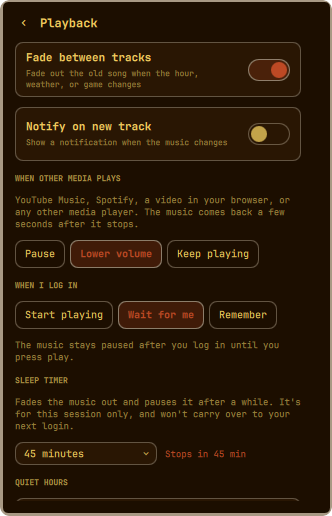
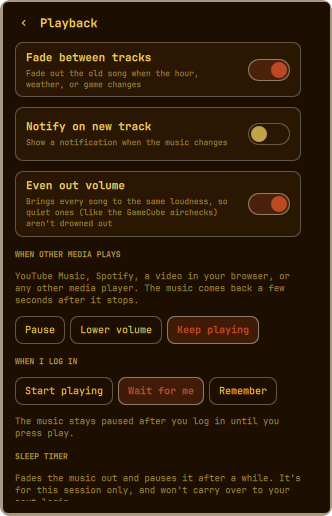
1.1.0: even out volume between songs
Some server recordings are far off the rest (the GameCube K.K. airchecks
sit around -26 to -30 LUFS against about -18 elsewhere; a few songs are
louder). Each song is now measured with ffmpeg's EBU R128 filter when it
lands in the cache, and mpv applies a per-track volume-gain toward -18
LUFS, boosting no further than the true peak allows and at most 12 dB.
Already-cached songs are measured in the background, and K.K.'s next song
is fetched while the current one plays so it starts cached and levelled.

The cache helper becomes bin/song-cache (fetch, measure, index). Playback
gets an "Even out volume" switch (on by default) that applies live.

Changed region(s): [[0.0301, 0.3101, 0.9036, 0.9922], [0.8735, 0.4341, 0.9036, 0.4651], [0.8735, 0.3101, 0.9036, 0.3411]]

diff --git a/Service.qml b/Service.qml
@@ -106,14 +106,21 @@ Item {
   // ---- Song cache (~/.cache/ac-music) ----
   readonly property string cacheDir: (Quickshell.env("XDG_CACHE_HOME") || home + "/.cache") + "/ac-music"
   readonly property string fetchScript: {
-    var url = String(Qt.resolvedUrl("bin/cache-fetch"))
+    var url = String(Qt.resolvedUrl("bin/song-cache"))
     return decodeURIComponent(url.indexOf("file://") === 0 ? url.substring(7) : url)
   }
-  // Relative paths of songs already on disk.
+  // Songs already on disk, by relative path: { loudness, peak } (null until measured).
   property var cached: ({})
+  // Pending cache jobs: { kind: "fetch", url } or { kind: "measure", rel }.
   property real cacheBytes: -1
   property var downloadQueue: []
   property string prefetchedFor: ""
+  // The K.K. song lined up next ({ song, version }), fetched ahead of time.
+  property var nextKK: null
+  // Levelling gain (dB) measured for the song mpv is playing, and the gain
+  // actually applied (0 while levelling is off), so the switch applies live.
+  property real loadedGain: 0
+  property real appliedGain: 0
 
   // ---- mpv ----
   // mpv-mpris (part of Omarchy's base install) makes mpv a system media
@@ -437,39 +444,80 @@ Item {
     return url
   }
 
+  function levelOn() {
+    return config.levelVolume && config.cache.enabled
+  }
+
+  // Levelling gain for a song from its cached measurement (0 if unknown),
+  // regardless of the on/off switch.
+  function gainFor(url) {
+    var entry = cached[Model.cacheRelPath(url)]
+    return entry ? Model.levelGain(entry.loudness, entry.peak) : 0
+  }
+
+  // Options shared by every track load: the media title and levelling gain.
+  function trackOptions(url, title) {
+    loadedGain = gainFor(url)
+    appliedGain = levelOn() ? loadedGain : 0
+    return "volume-gain=" + appliedGain + ",force-media-title=" + Model.mpvQuote(title)
+  }
+
+  function queueJob(job) {
+    var same = function(j) { return j.kind === job.kind && (j.url || j.rel) === (job.url || job.rel) }
+    if (downloadQueue.some(same) || (downloadProc.running && downloadProc.job && same(downloadProc.job))) return
+    downloadQueue = downloadQueue.concat([job])
+    pumpDownloads()
+  }
+
   function queueDownload(url) {
     var rel = Model.cacheRelPath(url)
     if (!config.cache.enabled || !rel || cached[rel]) return
-    if (downloadQueue.indexOf(url) >= 0 || (downloadProc.running && downloadProc.url === url)) return
-    downloadQueue = downloadQueue.concat([url])
-    pumpDownloads()
+    queueJob({ kind: "fetch", url: url })
   }
 
   function pumpDownloads() {
     if (downloadProc.running || downloadQueue.length === 0) return
-    var url = downloadQueue[0]
+    var job = downloadQueue[0]
     downloadQueue = downloadQueue.slice(1)
-    downloadProc.url = url
-    downloadProc.command = ["bash", fetchScript, url, cacheDir, Model.cacheRelPath(url), String(config.cache.limitMB * 1048576)]
+    downloadProc.job = job
+    downloadProc.command = job.kind === "measure"
+      ? ["bash", fetchScript, "measure", cacheDir, job.rel]
+      : ["bash", fetchScript, "fetch", job.url, cacheDir, Model.cacheRelPath(job.url), String(config.cache.limitMB * 1048576)]
     downloadProc.running = true
   }
 
   // In the last ten minutes of an hour, fetch the next hour's song so the
-  // hour change starts instantly.
+  // hour change starts instantly (and, if K.K. opens the hour, his song).
   function prefetchNextHour(d) {
     var next = new Date(d.getTime() + 15 * 60000)
     var key = Model.dateKey(next) + "|" + next.getHours()
     if (prefetchedFor === key) return
     prefetchedFor = key
+    if (Model.wantsBetween(config, next.getHours()) && !nextKK) prepareNextKK()
     if (Model.isKKTime(config, next)) return
     var g = Model.pickGame(config, Model.dateKey(next), next.getHours(), 0, 0, weather)
     if (g === Model.KK_ID) return
     queueDownload(Model.hourlyUrl(g, Model.trackWeather(g, weather), next.getHours()))
   }
 
+  // Line up K.K.'s next song now so it's cached (and levelled) when it starts.
+  function prepareNextKK() {
+    nextKK = Model.pickKK(config, Data.kkSongs, recentKK)
+    queueDownload(Model.kkUrl(nextKK.version, nextKK.song))
+  }
+
+  // The lined-up song if it's still allowed, else a fresh pick.
+  function takeNextKK() {
+    var n = nextKK
+    nextKK = null
+    var stillTicked = n && Model.kkVersionsFor(config, n.song).indexOf(n.version) >= 0
+    var repeat = n && recentKK.length > 0 && recentKK[recentKK.length - 1] === n.song
+    return stillTicked && !repeat ? n : Model.pickKK(config, Data.kkSongs, recentKK)
+  }
+
   function rescanCache() {
     if (cacheIndexProc.running) return
-    cacheIndexProc.command = ["find", cacheDir, "-type", "f", "-name", "*.ogg", "-printf", "%P\\n"]
+    cacheIndexProc.command = ["bash", fetchScript, "index", cacheDir]
     cacheIndexProc.running = true
   }
 
@@ -486,9 +534,17 @@ Item {
     cacheBytes = 0
   }
 
+  // Turning levelling on or off applies to the song that's playing right away.
+  function syncLevelGain() {
+    var gain = levelOn() ? loadedGain : 0
+    if (!mpvReady || gain === appliedGain) return
+    appliedGain = gain
+    send(["set_property", "volume-gain", gain])
+  }
+
   Process {
     id: downloadProc
-    property string url: ""
+    property var job: null
     onExited: function(exitCode) {
       root.rescanCache()
       root.pumpDownloads()
@@ -500,9 +556,17 @@ Item {
     stdout: StdioCollector {
       onStreamFinished: {
         var map = {}
-        text.split("\n").forEach(function(line) { if (line) map[line] = true })
+        var unmeasured = []
+        text.split("\n").forEach(function(line) {
+          var entry = Model.parseCacheLine(line)
+          if (!entry) return
+          map[entry.rel] = { loudness: entry.loudness, peak: entry.peak }
+          if (entry.loudness === null) unmeasured.push(entry.rel)
+        })
         root.cached = map
         root.refreshCacheSize()
+        // Songs cached before levelling existed (or whose measurement failed).
+        if (root.config.levelVolume) unmeasured.forEach(function(rel) { root.queueJob({ kind: "measure", rel: rel }) })
       }
     }
   }
@@ -542,6 +606,7 @@ Item {
   onConfigChanged: {
     syncSlot(new Date())
     syncVolume()
+    syncLevelGain()
     syncOtherMediaMode()
   }
   onHeldQuietChanged: syncVolume()
@@ -608,7 +673,7 @@ Item {
     lastError = ""
     loadedKey = trackKey
     if (betweenActive) {
-      startKK(Model.pickKK(config, Data.kkSongs, recentKK))
+      startKK(takeNextKK())
       notifyTrack("K.K. Slider", Model.kkTitle(kkSong) + ", then " + Model.hourLabel(hour))
       return
     }
@@ -620,9 +685,10 @@ Item {
     var opts = "loop-file=inf"
     if (loop && loop[1] > loop[0]) opts += ",ab-loop-a=" + loop[0] + ",ab-loop-b=" + loop[1]
     else opts += ",ab-loop-a=no,ab-loop-b=no"
+    var url = Model.hourlyUrl(game, trackWeather, hour)
     var title = Model.gameName(game) + " · " + Model.hourLabel(hour) + " · " + Model.weatherName(trackWeather)
-    opts += ",force-media-title=" + Model.mpvQuote(title)
-    send(["loadfile", sourceFor(Model.hourlyUrl(game, trackWeather, hour)), "replace", -1, opts])
+    opts += "," + trackOptions(url, title)
+    send(["loadfile", sourceFor(url), "replace", -1, opts])
     send(["set_property", "pause", !audible])
     restoreVolume()
     notifyTrack(Model.gameName(game), Model.hourLabel(hour) + " · " + Model.weatherName(trackWeather))
@@ -636,17 +702,18 @@ Item {
     kkVersionPlaying = choice.version
     lastError = ""
     send(["loadfile", sourceFor(Model.kkUrl(choice.version, choice.song)), "replace", -1, kkOptions(choice.song, choice.version)])
+    prepareNextKK()
     send(["set_property", "pause", !audible])
     restoreVolume()
   }
 
   function kkOptions(song, version) {
     var title = Model.kkTitle(song) + " · K.K. Slider (" + Model.versionName(version) + ")"
-    return "loop-file=no,ab-loop-a=no,ab-loop-b=no,force-media-title=" + Model.mpvQuote(title)
+    return "loop-file=no,ab-loop-a=no,ab-loop-b=no," + trackOptions(Model.kkUrl(version, song), title)
   }
 
   function playNextKK() {
-    startKK(Model.pickKK(config, Data.kkSongs, recentKK))
+    startKK(takeNextKK())
     notifyTrack("K.K. Slider", Model.kkTitle(kkSong))
   }
 

diff --git a/Model.js b/Model.js
@@ -114,6 +114,8 @@ function defaultConfig() {
     },
     fade: true,
     notify: false,
+    // Even out loudness between songs, using measurements of cached songs.
+    levelVolume: true,
     // Each day from `start` to `end` (hours, same rules as concerts), either
     // pause the music or turn it down; it comes back when they end.
     quiet: { enabled: false, start: 23, end: 7, mode: "pause" },
@@ -243,6 +245,7 @@ function normalizeConfig(raw) {
     kk: normalizeKK(c.kk),
     fade: bool(c.fade, d.fade),
     notify: bool(c.notify, d.notify),
+    levelVolume: bool(c.levelVolume, d.levelVolume),
     quiet: normalizeQuiet(c.quiet),
     cache: normalizeCache(c.cache),
     atLogin: pick(c.atLogin, ["play", "wait", "resume"], d.atLogin),
@@ -492,6 +495,36 @@ function kkUrl(version, song) {
 function cacheRelPath(url) {
   var prefix = BASE_URL + "/"
   return url.indexOf(prefix) === 0 ? decodeURIComponent(url.substring(prefix.length)) : ""
+}
+
+// ---- Volume levelling ----------------------------------------------------
+
+// Loudness every song is brought to. The hourly themes already sit near it;
+// it mostly lifts the quiet airchecks and tames the odd loud one.
+var LEVEL_TARGET = -18
+var LEVEL_MAX_DB = 12
+
+// Gain (dB) for a song measured at `loudness` LUFS with `peak` dBTP. Boosts
+// stop before the peak passes -1 dBTP, so levelling never clips.
+function levelGain(loudness, peak) {
+  if (typeof loudness !== "number" || isNaN(loudness)) return 0
+  var gain = LEVEL_TARGET - loudness
+  if (gain > 0 && typeof peak === "number" && !isNaN(peak)) gain = Math.min(gain, Math.max(0, -1 - peak))
+  gain = Math.max(-LEVEL_MAX_DB, Math.min(LEVEL_MAX_DB, gain))
+  return Math.round(gain * 10) / 10
+}
+
+// One line of `song-cache index`: "rel<TAB>loudness<TAB>peak" (last two may be empty).
+function parseCacheLine(line) {
+  var parts = String(line).split("\t")
+  if (!parts[0]) return null
+  var loudness = parseFloat(parts[1])
+  var peak = parseFloat(parts[2])
+  return {
+    rel: parts[0],
+    loudness: isNaN(loudness) ? null : loudness,
+    peak: isNaN(peak) ? null : peak
+  }
 }
 
 // mpv's escaping for a value inside a key=value option list: %<bytes>%value.

diff --git a/tests/model.test.js b/tests/model.test.js
@@ -236,3 +236,22 @@ test("mpv option quoting counts UTF-8 bytes", () => {
   assert.equal(Model.mpvQuote("abc"), "%3%abc")
   assert.equal(Model.mpvQuote("a · b"), "%6%a · b")
 })
+
+// ---- Volume levelling ----------------------------------------------------
+
+test("levelling lifts quiet songs, tames loud ones, and never clips", () => {
+  assert.equal(Model.levelGain(-26.4, -13.0), 8.4, "quiet aircheck gets lifted to the target")
+  assert.equal(Model.levelGain(-28.7, -13.0), 10.7)
+  assert.equal(Model.levelGain(-12.8, 0.3), -5.2, "loud song comes down")
+  assert.equal(Model.levelGain(-22, -2), 1, "a boost stops at -1 dBTP peak")
+  assert.equal(Model.levelGain(-20, 0.5), 0, "no headroom, no boost (but no cut either)")
+  assert.equal(Model.levelGain(-40, -30), 12, "capped at +12 dB")
+  assert.equal(Model.levelGain(null, null), 0, "unmeasured songs play as they are")
+  assert.equal(Model.normalizeConfig({}).levelVolume, true)
+})
+
+test("cache index lines parse with and without measurements", () => {
+  assert.deepEqual(Model.parseCacheLine("kk/live/NH - Drivin'.ogg\t-19.4\t-0.9"), { rel: "kk/live/NH - Drivin'.ogg", loudness: -19.4, peak: -0.9 })
+  assert.deepEqual(Model.parseCacheLine("new-leaf/sunny/1am.ogg\t"), { rel: "new-leaf/sunny/1am.ogg", loudness: null, peak: null })
+  assert.equal(Model.parseCacheLine(""), null)
+})

diff --git a/PlaybackPage.qml b/PlaybackPage.qml
@@ -52,6 +52,18 @@ Column {
     onClicked: page.p.svc.update({ notify: !page.p.cfg.notify })
   }
 
+  Toggle {
+    width: parent.width
+    label: "Even out volume"
+    description: page.p.cfg.cache.enabled
+      ? "Brings every song to the same loudness, so quiet ones (like the GameCube airchecks) aren't drowned out"
+      : "Needs the song cache below, which is where songs are measured"
+    checked: page.p.cfg.levelVolume
+    foreground: page.p.foreground
+    fontFamily: page.p.fontFamily
+    onClicked: page.svc.update({ levelVolume: !page.p.cfg.levelVolume })
+  }
+
   PanelSectionHeader { text: "WHEN OTHER MEDIA PLAYS"; foreground: page.p.foreground; fontFamily: page.p.fontFamily }
 
   Text {

diff --git a/README.md b/README.md
@@ -55,7 +55,8 @@ don't download again every day.
 - **Your choice at login:** start playing, wait for you to press play, or pick up where you left off.
 - **Media keys:** your keyboard's play/pause key, headset buttons, and Omarchy's media controls all work, with the game and hour as the track title.
 - **Sleep timer and quiet hours:** fade out after 15 minutes to an hour and a half, or pause (or turn down) the music at the same time every night and bring it back in the morning.
-- **Light on data:** recently played songs are kept in a small cache, and the next hour's song is fetched ahead of time, so the hour changes instantly.
+- **Even volume:** every song is brought to the same loudness, so quieter recordings (like the original game's K.K. airchecks) aren't drowned out and louder ones don't jump out.
+- **Light on data:** recently played songs are kept in a small cache, and the next song is fetched ahead of time, so the hour (or K.K.'s next song) starts instantly.
 - **Fits Omarchy:** uses Omarchy's own panel styling, follows your theme, and works with any bar position.
 - **Scriptable:** a small `ac-music` command for terminals and keybinds.
 
@@ -67,10 +68,11 @@ omarchy plugin add https://github.com/NinDaniel/omarchy-ac-music --enable
 
 The leaf appears on the right side of your bar and the music starts.
 
-**Requirements:** `mpv` and `curl`, plus `mpv-mpris` for [media keys](#media-keys) and
-`notify-send` for track notifications. All four come with Omarchy, so there's
-nothing extra to install. Without `mpv-mpris` or `notify-send`, everything
-else still works.
+**Requirements:** `mpv` and `curl`, plus `ffmpeg` for [even volume](#even-out-volume),
+`mpv-mpris` for [media keys](#media-keys), and `notify-send` for track
+notifications. All of them come with Omarchy (`ffmpeg` is installed along with
+`mpv`), so there's nothing extra to install. Without any of the last three,
+everything else still works.
 
 **Moving the leaf:** drag it along the bar like any other widget, or run:
 
@@ -287,6 +289,21 @@ that.
 |-------------------------|--------------|
 | **Fade between tracks** | Fades the old song out over about a second and a half when the hour, weather, or game changes. Off means an instant switch. |
 | **Notify on new track** | Shows a desktop notification with the game and hour (or K.K. song) whenever the music changes. Off by default. |
+| **Even out volume**     | Brings every song to the same loudness. On by default; see below. |
+
+#### Even out volume
+
+The songs on the music server weren't all recorded at the same level. Most sit
+close together, but some stand out: the original game's K.K. airchecks are
+about 8 to 12 dB quieter than everything else (roughly half as loud to the
+ear), and a few songs are noticeably louder. **Even out volume** fixes that by
+measuring each song's loudness and turning it up or down to a common level,
+the way music apps' "normalize volume" works.
+
+- Each song is measured once, on your computer, right after it lands in the [song cache](#song-cache), so levelling needs the cache to be on. Songs that were already cached are measured in the background.
+- The adjustment is applied as the song plays, and the song file itself is never changed. Switching levelling off or on takes effect on the song that's playing straight away.
+- Quiet songs are only boosted as far as they can go without distorting, and adjustments are limited to 12 dB either way. The hourly themes are already close to the common level, so they barely change.
+- Because the next song is fetched ahead of time (the next hour's theme near the end of each hour, and K.K.'s next song while the current one plays), nearly everything is cached and measured before it starts. The exceptions play at their original level: the first song after the music starts, if it isn't cached yet, and previews of songs that aren't cached.
 
 #### When other media plays
 
@@ -340,6 +357,9 @@ gentle wake-up. If you paused the music yourself, it stays paused.
 Songs you've heard are kept in `~/.cache/ac-music`, so the same hour's theme
 isn't downloaded again every day. In the last ten minutes of each hour, the
 next hour's song is fetched ahead of time, so the hour change starts instantly.
+During K.K., his next song is fetched while the current one plays. Each song is
+also measured for [even volume](#even-out-volume) when it arrives; the result
+is stored next to it as a tiny `.gain` file.
 
 - **Keep recent songs on disk:** on by default. Off means every song streams fresh.
 - **Size limit:** 100 MB, 300 MB (default), 500 MB, or 1 GB. Once it's full, the songs played least recently are deleted first. A typical song is 3 to 7 MB, so 300 MB holds around 60.
@@ -427,6 +447,7 @@ Anything missing or invalid falls back to its default.
 | `kk.off`              | list of unticked versions as `"version/song"`, like `"aircheck/AC - K.K. Aria"` | every aircheck |
 | `fade`           | `true` / `false` | `true` |
 | `notify`         | `true` / `false` | `false` |
+| `levelVolume`    | `true` / `false` (even out volume) | `true` |
 | `otherMedia`     | `pause`, `lower`, `ignore` | `pause` |
 | `quiet.enabled`  | `true` / `false` | `false` |
 | `quiet.start`    | `0` to `23` (hour) | `23` |
@@ -496,8 +517,9 @@ The plugin talks to three services:
 
 - **acmusicext.com:** the music itself, one song (usually 3 to 7 MB) at a time.
   With the [song cache](#song-cache) on, each song downloads once and replays
-  from disk until it's trimmed, and the next hour's song is fetched in the last
-  ten minutes of the hour. With it off, a song downloads every time it starts:
+  from disk until it's trimmed. The next hour's song is fetched in the last
+  ten minutes of the hour, and during K.K. his next song is fetched while the
+  current one plays. With it off, a song downloads every time it starts:
   hourly, at every switch in *Every few minutes* mode, once per K.K. song, and
   once per preview. Loops always replay from memory. K.K. album covers (about
   20 KB each) load when the panel shows them.
